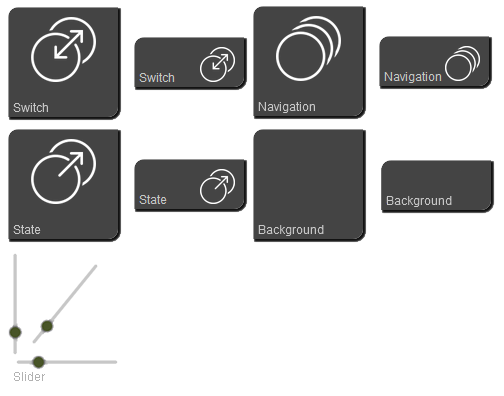
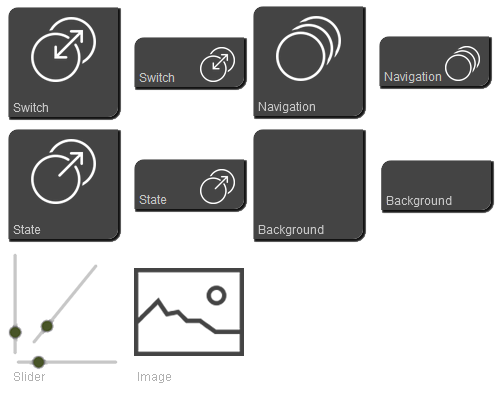
Added 4 Sliderss for Corner Radius

Changed region(s): [[0.2679, 0.6667, 0.506, 0.9091], [0.2679, 0.9394, 0.3274, 0.9697]]

diff --git a/widgets/vis-inventwo.html b/widgets/vis-inventwo.html
@@ -30,7 +30,7 @@
                     border-radius: <%= this.data.attr('iCornerRadiusUL') %>px <%= this.data.attr('iCornerRadiusUR') %>px <%= this.data.attr('iCornerRadiusLR') %>px <%= this.data.attr('iCornerRadiusLL') %>px;
                     opacity:<%= this.data.attr('iOpacity')%>;"
                 <% } else { %>
-                    style="background: <%= this.data.attr('iButtonActive') %>;
+                    style="background: <%= this.data.attr('iButtonCol') %>;
                     border-radius: <%= this.data.attr('iCornerRadiusUL') %>px <%= this.data.attr('iCornerRadiusUR') %>px <%= this.data.attr('iCornerRadiusLR') %>px <%= this.data.attr('iCornerRadiusLL') %>px;
                     opacity:<%= this.data.attr('iOpacity')%>;"
                 <% } %>
@@ -92,7 +92,7 @@
                     border-radius: <%= this.data.attr('iCornerRadiusUL') %>px <%= this.data.attr('iCornerRadiusUR') %>px <%= this.data.attr('iCornerRadiusLR') %>px <%= this.data.attr('iCornerRadiusLL') %>px;
                     opacity:<%= this.data.attr('iOpacity')%>;"
                 <% } else { %>
-                    style="background: <%= this.data.attr('iButtonActive') %>;
+                    style="background: <%= this.data.attr('iButtonCol') %>;
                     border-radius: <%= this.data.attr('iCornerRadiusUL') %>px <%= this.data.attr('iCornerRadiusUR') %>px <%= this.data.attr('iCornerRadiusLR') %>px <%= this.data.attr('iCornerRadiusLL') %>px;
                     opacity:<%= this.data.attr('iOpacity')%>;"
                 <% } %>
@@ -149,7 +149,7 @@
 		<div class="vis-inventwo-class vis-widget-body <%== this.data.attr('class') %> ">
 
             <div class="vis-inventwo-button"
-                    style="background: <%= this.data.attr('iButtonActive') %>;
+                    style="background: <%= this.data.attr('iButtonCol') %>;
                     border-radius: <%= this.data.attr('iCornerRadiusUL') %>px <%= this.data.attr('iCornerRadiusUR') %>px <%= this.data.attr('iCornerRadiusLR') %>px <%= this.data.attr('iCornerRadiusLL') %>px;
                     opacity:<%= this.data.attr('iOpacity')%>;"
             >
@@ -190,7 +190,7 @@
 		<div class="vis-inventwo-class vis-widget-body <%== this.data.attr('class') %> ">
 
             <div class="vis-inventwo-button"
-                    style="background: <%= this.data.attr('iButtonActive') %>;
+                    style="background: <%= this.data.attr('iButtonCol') %>;
                     border-radius: <%= this.data.attr('iCornerRadiusUL') %>px <%= this.data.attr('iCornerRadiusUR') %>px <%= this.data.attr('iCornerRadiusLR') %>px <%= this.data.attr('iCornerRadiusLL') %>px;
                     opacity:<%= this.data.attr('iOpacity')%>;"
             >
@@ -236,7 +236,8 @@
 
             <div class="vis-inventwo-button"
                     style="background: <%= this.data.attr('iButtonCol') %>;
-                    border-radius: <%= this.data.attr('iCornerRadius') %>px 0;position: absolute;width: 100%;height: 100%;opacity:<%= this.data.attr('iOpacity') %>;"
+                    border-radius: <%= this.data.attr('iCornerRadiusUL') %>px <%= this.data.attr('iCornerRadiusUR') %>px <%= this.data.attr('iCornerRadiusLR') %>px <%= this.data.attr('iCornerRadiusLL') %>px;
+                    opacity:<%= this.data.attr('iOpacity')%>;"
             >
 		    </div>
 			<%
@@ -257,6 +258,51 @@
                     <%= this.data.iText %>
 		        </div>
             </div>
+		</div>
+
+	</div>
+</script>
+
+<script id="i-vis-navigation-small"
+		type="text/ejs"
+		class="vis-tpl"
+		data-vis-prev='<img src="widgets/vis-inventwo/img/0_Button1.png">'
+		data-vis-attrs="iWiki/custom,vis-inventwo.externalLinks,wiki;nav_view;iText/text;iTextSize[12]/slider,0,50,1;iImage/image;iIconSize[70]/slider,0,200,1;iInvertImageCol/checkbox;iFlipImage/checkbox;"
+		data-vis-attrs0="group.i-css;iButtonCol[#333333]/color;
+		iCornerRadiusUL[12]/slider,0,50,1;iCornerRadiusUR[0]/slider,0,50,1;iCornerRadiusLR[12]/slider,0,50,1;iCornerRadiusLL[0]/slider,0,50,1;
+		iOpacity[1]/slider,0,1,0.1;iOpacityCtn[1]/slider,0,1,0.1;iTextColor[#ffffff]/color;"
+		data-vis-set="vis-inventwo"
+		data-vis-type="button"
+		data-vis-name="Navigation Small">
+
+	<div class="vis-widget <%== this.data.attr('class') %> waves-effect waves-light" style="width:110px; height:50px; overflow:visible; cursor:pointer" id="<%= this.data.attr('wid') %>" >
+		<div class="vis-inventwo-class vis-widget-body <%== this.data.attr('class') %> ">
+
+            <div class="vis-inventwo-button"
+                    style="background: <%= this.data.attr('iButtonCol') %>;
+                    border-radius: <%= this.data.attr('iCornerRadiusUL') %>px <%= this.data.attr('iCornerRadiusUR') %>px <%= this.data.attr('iCornerRadiusLR') %>px <%= this.data.attr('iCornerRadiusLL') %>px;
+                    opacity:<%= this.data.attr('iOpacity')%>;"
+            >
+		    </div>
+			<%
+
+            		let flip = 1;
+            		if(this.data.attr('iFlipImage')){
+            			flip = -1;
+            		}
+
+            	%>
+            <div class="vis-inventwo-button-content-small" style="opacity: <%= this.data.attr('iOpacityCtn') %>">
+
+                <div style="order:2; position:relative;">
+                    <img src='<%= this.data.iImage %>' width="<%= this.data.iIconSize %>" style="filter: invert(<%= Number(this.data.attr('iInvertImageCol')) %>);transform: scaleX(<%= flip %>);">
+                </div>
+                <div class="vis-inventwo-button-text" style="font-size: <%= this.data.iTextSize %>px;display:table-cell;color:<%= this.data.iTextColor %>">
+                    <%= this.data.iText %>
+		        </div>
+
+            </div>
+            <%= (el) -> vis.binds['vis-inventwo'].state(el, this.data) %>
 		</div>
 
 	</div>
@@ -283,7 +329,7 @@
                     border-radius: <%= this.data.attr('iCornerRadiusUL') %>px <%= this.data.attr('iCornerRadiusUR') %>px <%= this.data.attr('iCornerRadiusLR') %>px <%= this.data.attr('iCornerRadiusLL') %>px;
                     opacity:<%= this.data.attr('iOpacity')%>;"
                 <% } else { %>
-                    style="background: <%= this.data.attr('iButtonActive') %>;
+                    style="background: <%= this.data.attr('iButtonCol') %>;
                     border-radius: <%= this.data.attr('iCornerRadiusUL') %>px <%= this.data.attr('iCornerRadiusUR') %>px <%= this.data.attr('iCornerRadiusLR') %>px <%= this.data.attr('iCornerRadiusLL') %>px;
                     opacity:<%= this.data.attr('iOpacity')%>;"
                 <% } %>
@@ -344,7 +390,7 @@
                     border-radius: <%= this.data.attr('iCornerRadiusUL') %>px <%= this.data.attr('iCornerRadiusUR') %>px <%= this.data.attr('iCornerRadiusLR') %>px <%= this.data.attr('iCornerRadiusLL') %>px;
                     opacity:<%= this.data.attr('iOpacity')%>;"
                 <% } else { %>
-                    style="background: <%= this.data.attr('iButtonActive') %>;
+                    style="background: <%= this.data.attr('iButtonCol') %>;
                     border-radius: <%= this.data.attr('iCornerRadiusUL') %>px <%= this.data.attr('iCornerRadiusUR') %>px <%= this.data.attr('iCornerRadiusLR') %>px <%= this.data.attr('iCornerRadiusLL') %>px;
                     opacity:<%= this.data.attr('iOpacity')%>;"
                 <% } %>
